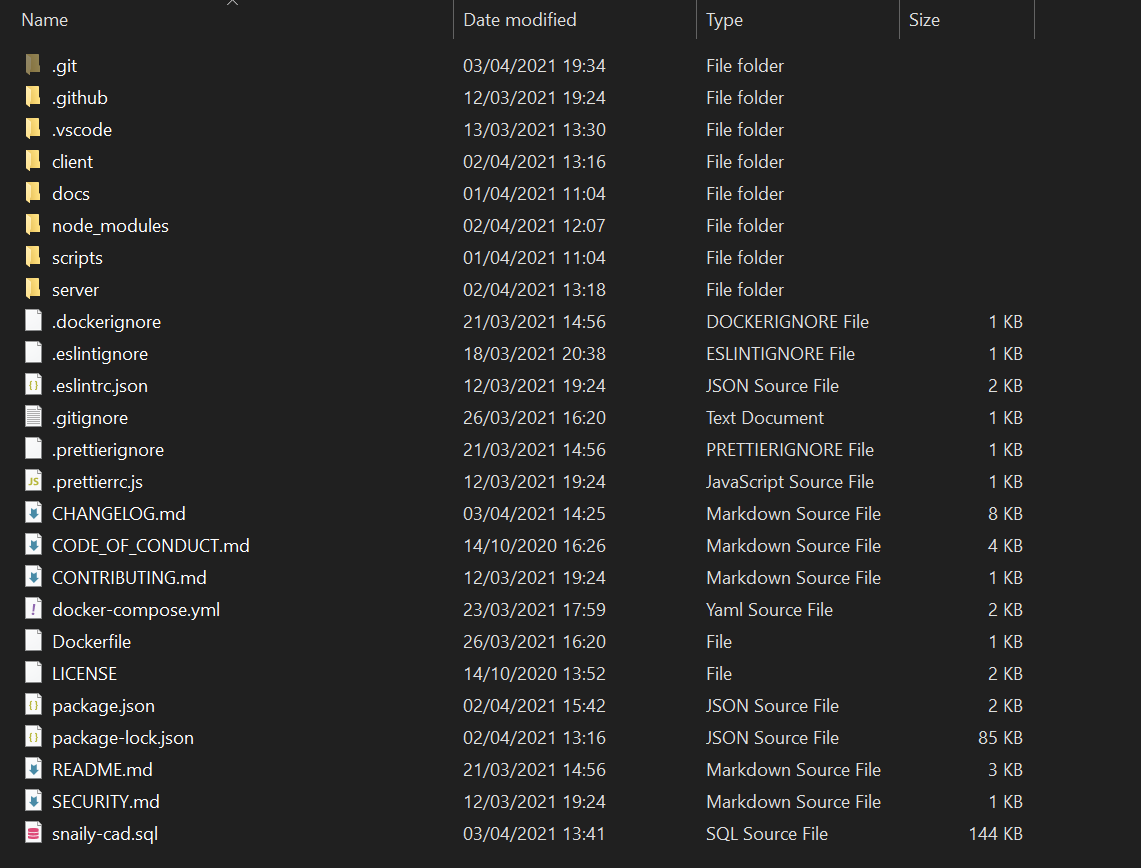
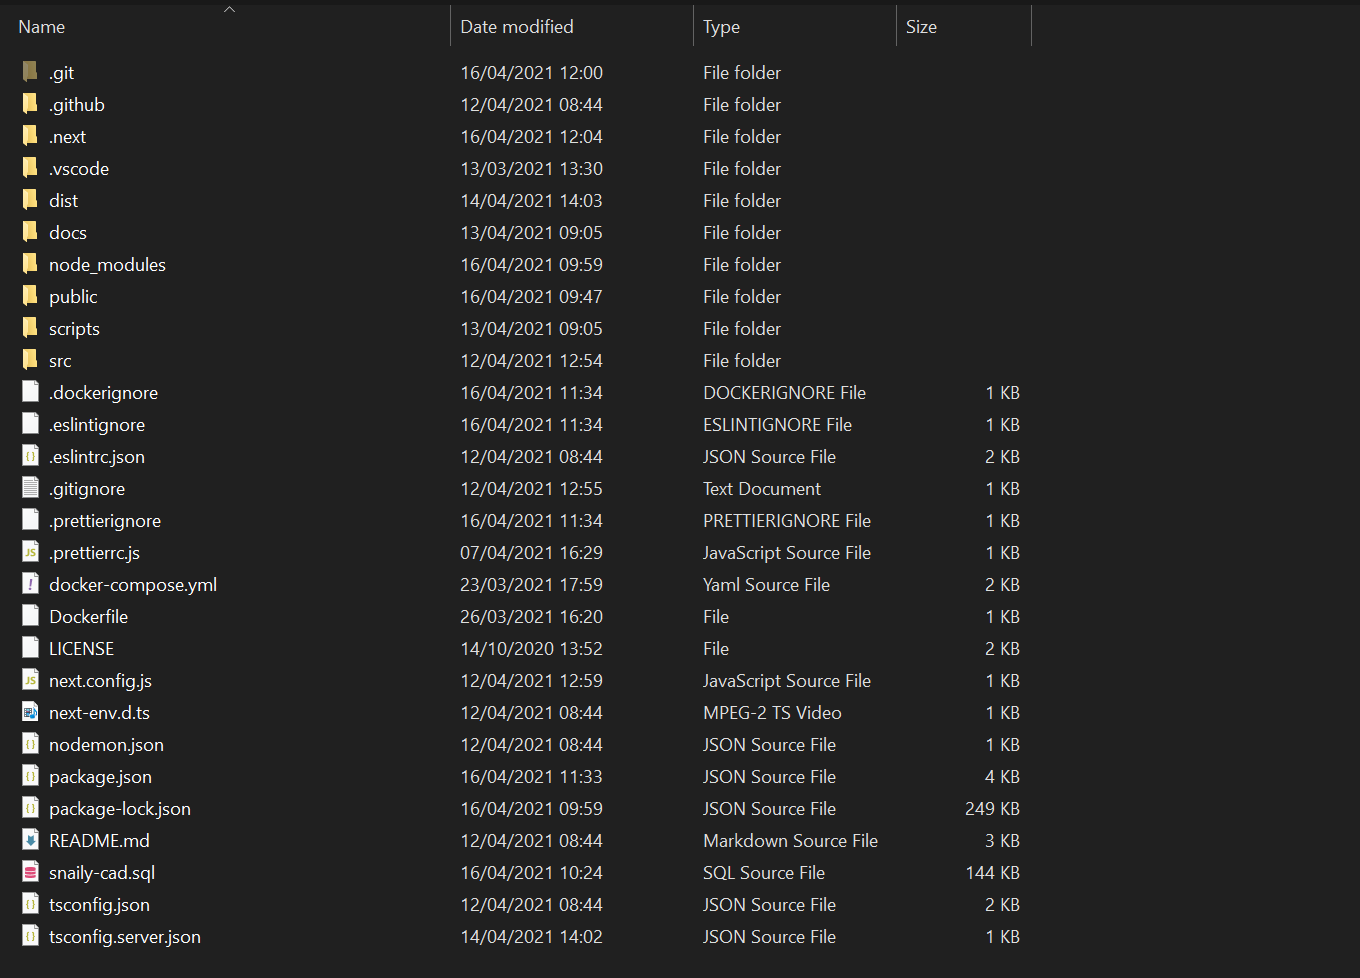
:tada: NEW: update posts

diff --git a/src/data/posts/setting-up-snailycad-linux.md b/src/data/posts/setting-up-snailycad-linux.md
@@ -1,6 +1,7 @@
 ---
 title: Setting up SnailyCADv3 on Linux
 created_at: April 4, 2021
+updated_at: April 16, 2021
 intro: How to setup SnailyCADv3 on Ubuntu - In-depth guide.
 keywords: snaily-cad, CAD, fivem, cad/mdt linux
 ---
@@ -71,13 +72,13 @@ Now we need to install all the dependencies to run the CAD. Run the following co
 _This can take several minutes to finish, please be patient!_
 
 ```console
-npm run auto-install
+npm install
 ```
 
-Once it has finished installing, navigate to the `server` folder with the following command:
+Once it has finished installing, navigate to the `src` folder with the following command:
 
 ```console
-cd server
+cd src
 ```
 
 We can see all the files and folders with the following command:
@@ -89,13 +90,16 @@ ls -l
 Now you should see the following files and folders:
 
 ```console
+components
+hooks
+interfaces
+lib
+pages
+state
+styles
 config.example.ts
-node_modules
-package-lock.json
-package.json
-public
-src
-tsconfig.json
+language.json
+server.ts
 ```
 
 ---
@@ -111,14 +115,17 @@ cp config.example.ts config.ts
 Your server folder should now have these files:
 
 ```console
+components
+hooks
+interfaces
+lib
+pages
+state
+styles
 config.example.ts
 config.ts
-node_modules
-package-lock.json
-package.json
-public
-src
-tsconfig.json
+language.json
+server.ts
 ```
 
 Now open the `config.ts` file using `nano config.ts` or any other terminal-editor. You can [view more information about what the values mean here](https://github.com/Dev-CasperTheGhost/snaily-cadv3/wiki/Config-file).

diff --git a/src/data/posts/setting-up-snailycad-windows.md b/src/data/posts/setting-up-snailycad-windows.md
@@ -1,7 +1,7 @@
 ---
 title: Setting up SnailyCADv3 on Windows
 created_at: April 4, 2021
-updated_at: April 4, 2021
+updated_at: April 16, 2021
 intro: How to setup SnailyCADv3 on Windows 10 - In-depth guide.
 keywords: snaily-cad, CAD, fivem
 ---
@@ -73,7 +73,7 @@ Now we need to install all the dependencies to run the CAD. Run the following co
 _This can take several minutes to finish, please be patient!_
 
 ```console
-npm run auto-install
+npm install
 ```
 
 Once it has finished installing, you [can open windows file explorer](https://www.howtogeek.com/693474/12-ways-to-open-file-explorer-in-windows-10/) and navigate to the folder where you installed SnailyCAD. (Keep the command prompt open)
@@ -86,7 +86,7 @@ If you don't see the file extensions (`.js`, `.md`, `.sql`, ...) I [recommend en
 
 ---
 
-Now navigate into the `server` folder and look for the `config.example.ts` file. **Copy and rename** this file to `config.ts`.
+Now navigate into the `src` folder and look for the `config.example.ts` file. **Copy and rename** this file to `config.ts`.
 
 Your server folder should look like this now:
 

diff --git a/src/data/posts/update-snailycad.md b/src/data/posts/update-snailycad.md
@@ -1,0 +1,54 @@
+---
+title: Updating SnailyCAD from 1.5.x to 2.0.0
+created_at: April 16, 2021
+updated_at: April 16, 2021
+intro: How to update SnailyCAD 1.5.x to 2.0.0.
+keywords: snaily-cad, CAD, fivem
+---
+
+## Updating
+
+First run the following command
+
+```bash
+git pull origin main
+```
+
+If you get an error that includes the following text:
+
+```txt
+Please stash or commit your changes
+```
+
+Do the following:
+
+1. **If you have translated the CAD, make sure to copy the content of the `language.json` file and keep it save.**
+2. Run `git stash`
+3. Run `git pull origin main`
+4. Open the `src` folder, then open the `language.json` file
+5. Paste the contents from the old `language.json` file into the new `language.json`
+6. Done!
+
+## Installing the dependencies
+
+Now we'll install the dependencies.
+
+```bash
+npm install
+```
+
+## Starting
+
+to start the CAD simply run the following command:
+
+```bash
+npm install
+```
+
+## 🎉 woohoo
+
+After a few seconds it should log
+
+```txt
+[APP]: Running on http://localhost:<port>/
+```
